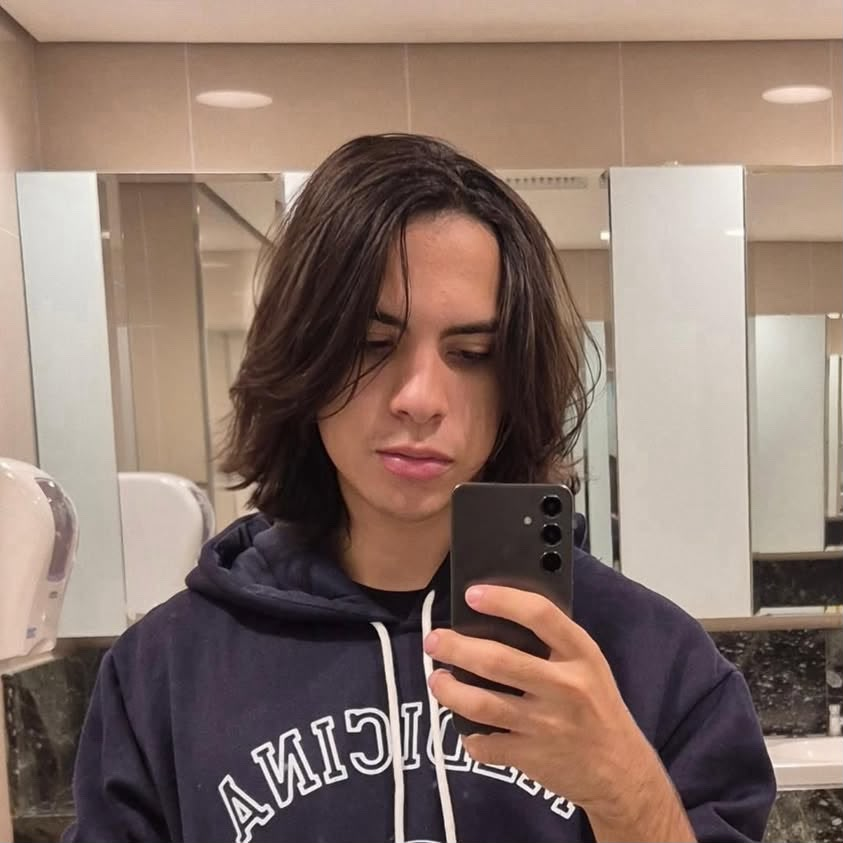
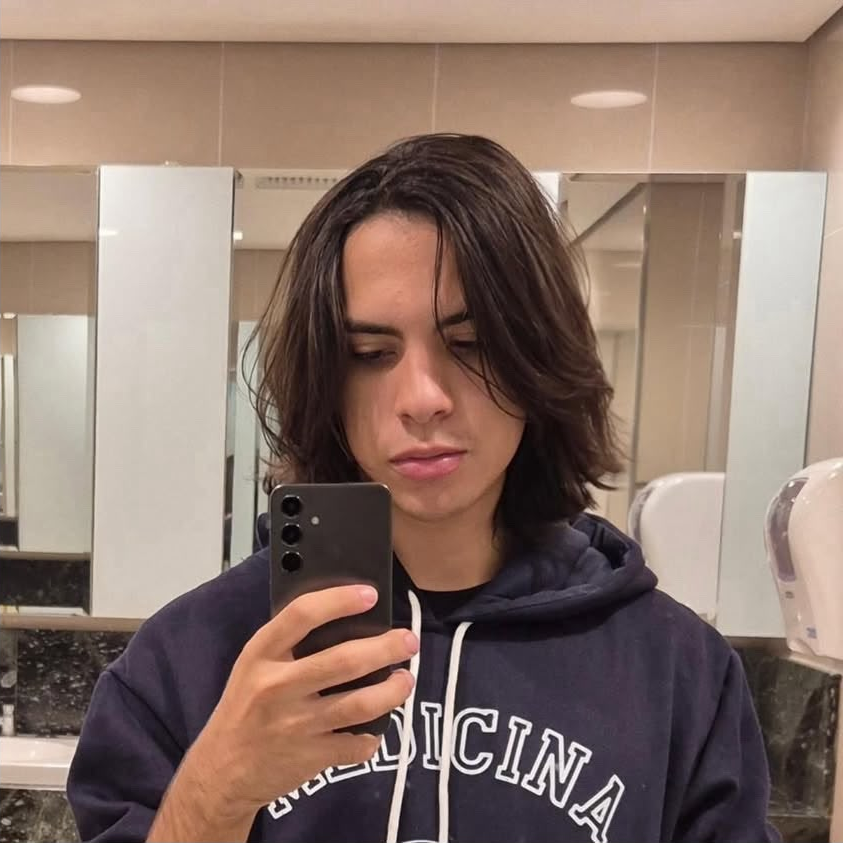
depoimentos

diff --git a/src/pages/HomePage.jsx b/src/pages/HomePage.jsx
@@ -831,14 +831,36 @@ Parabenizo a direção, os professores e todos os profissionais envolvidos por c
     img: IMG.alunos[0]
   },
   {
-    text: 'A dedicação dos professores faz toda a diferença. Minha filha se sente acolhida e motivada a aprender todos os dias.',
-    name: 'Mãe de aluna da Educação Infantil',
-    img: IMG.alunos[1]
+    text: 'Meus filhos estudam no Colégio Albert Einstein desde o início da vida escolar, e somos muito gratos por tudo o que vivemos nesses anos. Além da excelente qualidade de ensino, sempre encontramos uma equipe acolhedora, com coordenação e direção acessíveis e dispostas a caminhar junto com as famílias. É uma alegria vê-los crescer em um ambiente onde são respeitados, incentivados e verdadeiramente acolhidos.',
+    name: 'Mãe de aluno do Fundamental I',
+    img: '/depoimentos/mae-aluno.jpeg'
   },
+
+ {
+    text: 'Ver o Mateus crescendo e feliz aqui no colégio não tem preço! Eu já conhecia a qualidade do Material Anglo da minha época de escola, mas ver o cuidado dos professores e o quanto ele se desenvolve nos dá a certeza de que fizemos a escolha certa. Gratidão a essa equipe incrível!',
+    name: 'Pai de aluno do Fundamental I',
+    img: '/depoimentos/pai-aluno.jpeg'
+  },
+  {
+    text: 'Tenho a satisfação de falar que pertenci à família Einstein. Conjuntamente com os meus pais, o colégio foi o local a qual aprendi os valores dos aprendizados técnico e humano, essenciais tanto para o meu desempenho acadêmico no ensino superior quanto para a vida.',
+    name: 'Ex-aluno do Ensino Médio',
+    img: '/depoimentos/ex-aluno3.jpeg'
+  },
+
   {
     text: 'Estudar no Colégio Albert Einstein não apenas contribuiu significativamente para meu desempenho acadêmico e para minha entrada no ensino superior, como também me proporcionou amizades que levarei para a vida. Sou muito grato a toda a equipe por fazer parte dessa trajetória.',
     name: 'Ex-aluno do Ensino Médio',
     img: '/depoimentos/ex-aluno.jpeg'
+  },
+  {
+    text: 'Mais do que um colégio, o Albert Einstein foi um lugar onde aprendi, cresci e me preparei para os desafios da vida. Sou grato por tudo o que vivi aqui, pelas amizades que construí e por cada aprendizado que levarei comigo sempre. Sem dúvida, é uma parte da minha trajetória que sempre vou guardar com carinho.',
+    name: 'Ex-aluno do Ensino Médio',
+    img: '/depoimentos/ex-aluno2.jpeg'
+  },
+  {
+    text: 'Sou muito grato por ter encontrado no Colégio Einstein tanto uma ótima equipe de profissionais dispostos a me auxiliarem quanto um sistema de ensino eficiente. As habilidades que foram desenvolvidas continuam a repercutir na minha jornada acadêmica e me sinto mais preparado para a vida profissional.',
+    name: 'Ex-aluno do Ensino Médio',
+    img: '/depoimentos/ex-aluno4.jpeg'
   }
 ];
 function Testimonials() {
@@ -887,7 +909,7 @@ function Testimonials() {
                         {TESTIMONIALS.map((t, i) => {
                           const isActive = i === active;
                           const deckStyles = ['-rotate-6 -translate-x-4 -translate-y-2', 'rotate-12 translate-x-5 translate-y-3', '-rotate-3 translate-x-1 -translate-y-4'];
-                          return <button key={t.name} onClick={() => setActive(i)} aria-label={t.name} style={{ zIndex: isActive ? 10 : i }} className={`absolute inset-0 overflow-hidden rounded-3xl shadow-xl transition-all duration-500 ${isActive ? 'rotate-0 translate-x-0 translate-y-0 scale-100 opacity-100' : `scale-90 opacity-80 hover:opacity-100 ${deckStyles[i % deckStyles.length]}`}`}>
+                          return <button key={t.img} onClick={() => setActive(i)} aria-label={t.name} style={{ zIndex: isActive ? 10 : i }} className={`absolute inset-0 overflow-hidden rounded-3xl shadow-xl transition-all duration-500 ${isActive ? 'rotate-0 translate-x-0 translate-y-0 scale-100 opacity-100' : `scale-90 opacity-80 hover:opacity-100 ${deckStyles[i % deckStyles.length]}`}`}>
                                 <img src={t.img} alt={t.name} loading="lazy" decoding="async" className="h-full w-full object-cover" />
                             </button>;
                         })}
